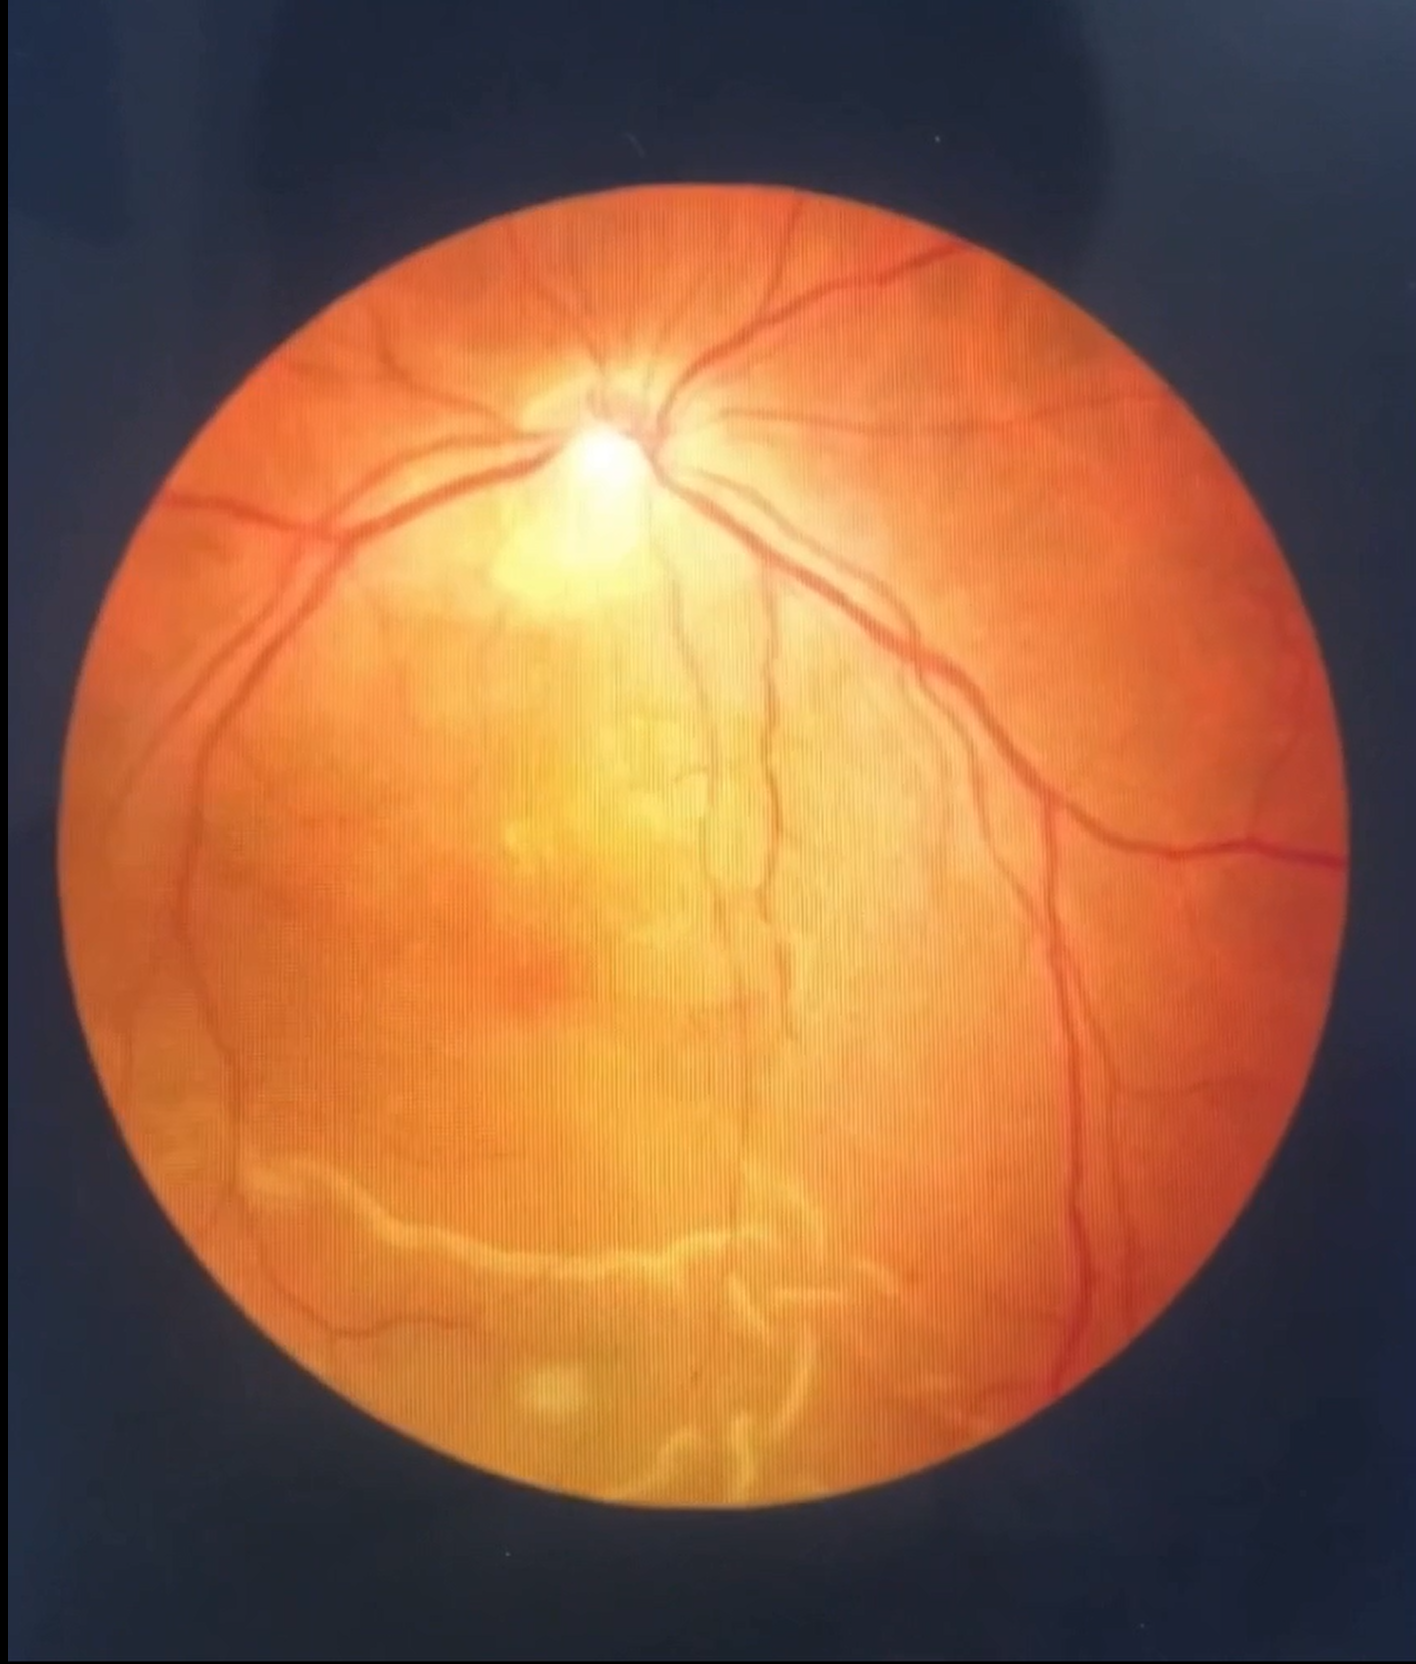
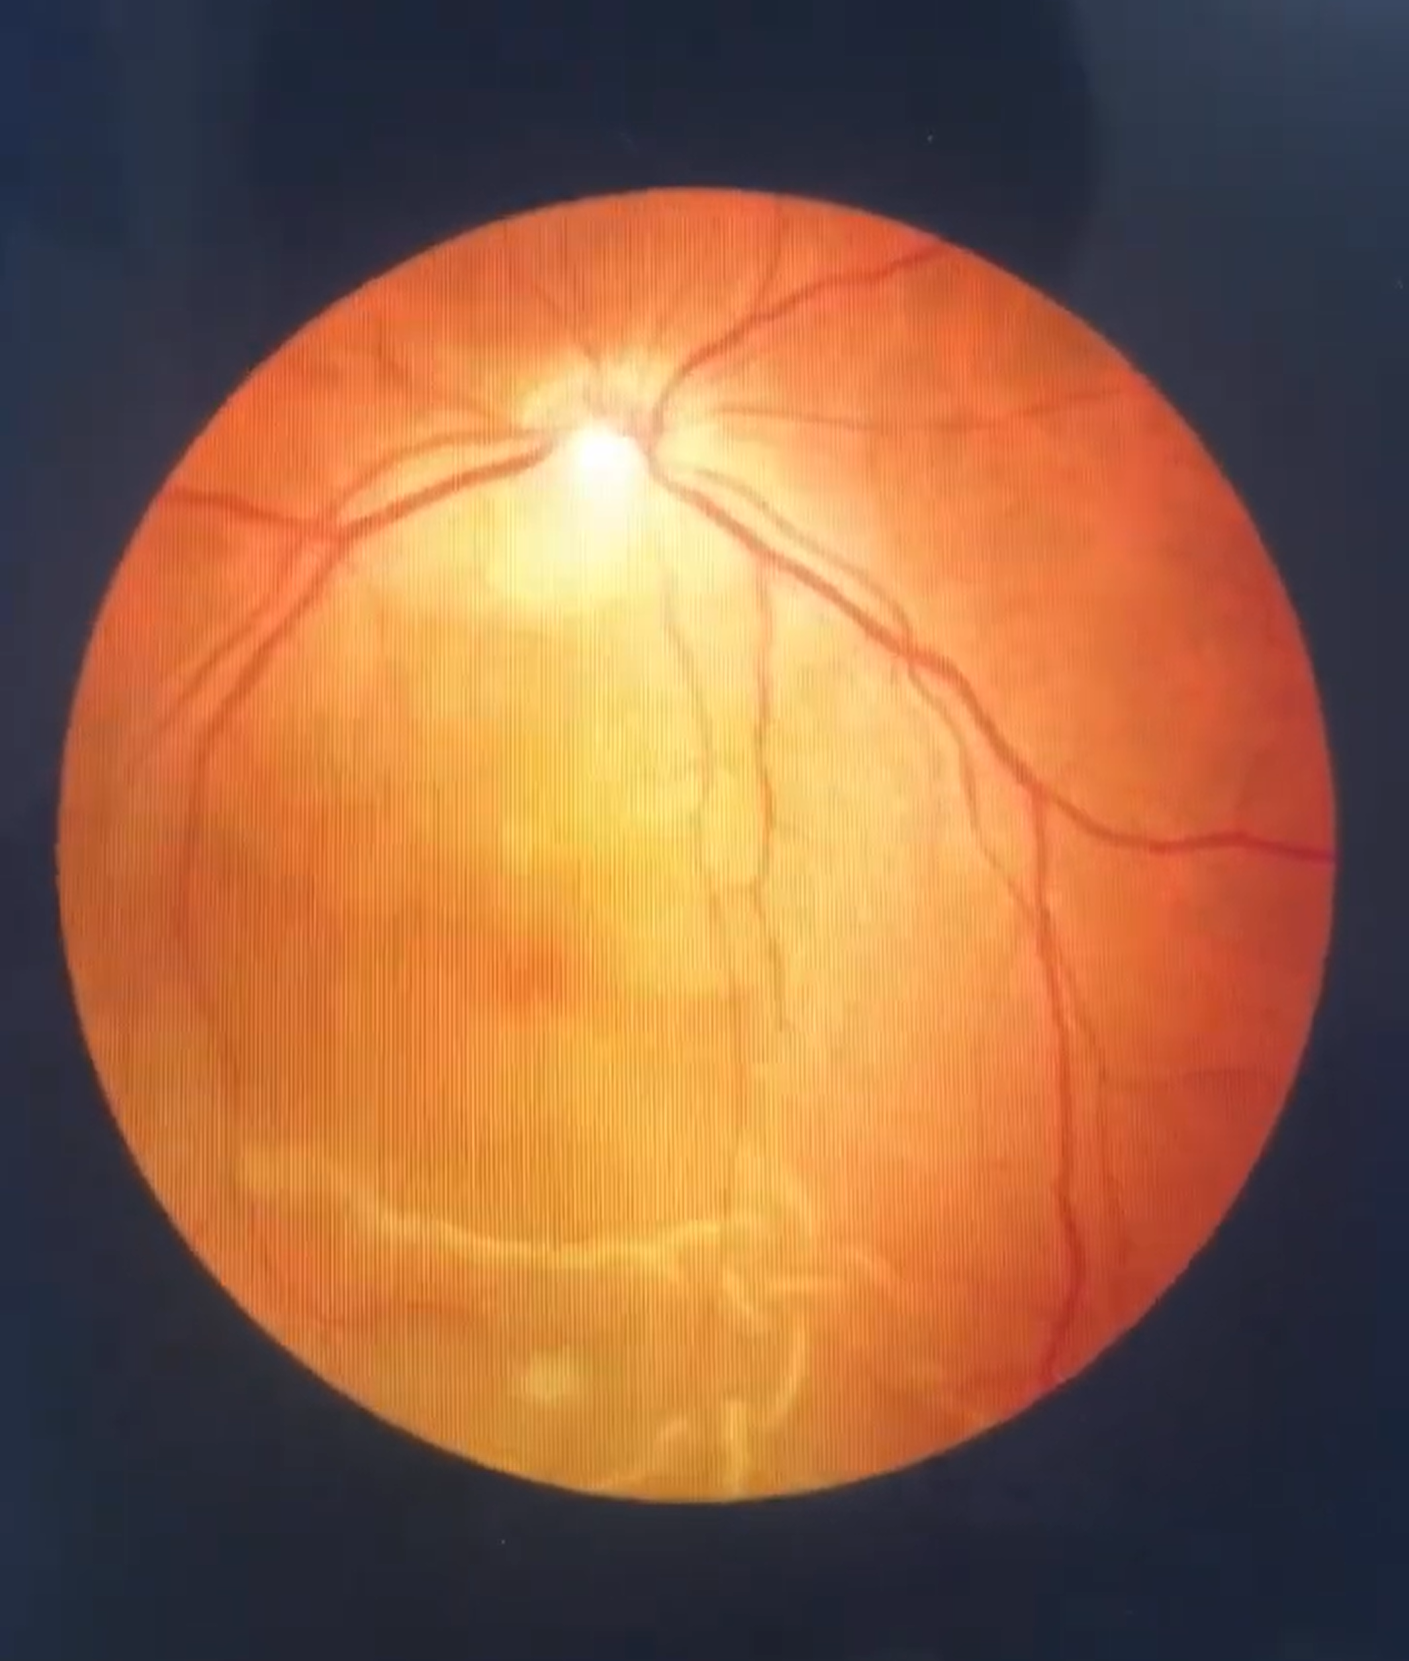
first draft retinal demo

diff --git a/src/pages/EyeDetect.jsx b/src/pages/EyeDetect.jsx
@@ -1,42 +1,60 @@
-import { useRef, useState } from 'react';
+import { useRef, useState } from "react";
 import Webcam from "react-webcam";
-import RetinaVid from '../assets/retinaldetachfake.mp4';
-import RetinaImg from '../assets/RetinaDetachImg.png';
+import RetinaVid from "../assets/retinaldetachfake.mp4";
+import RetinaImg from "../assets/RetinaDetachImg.png";
+import AnalyzedImg from "../assets/AnalyzedImg.png";
 
 const EyeDetect = () => {
   const webcamRef = useRef(null);
   const videoRef = useRef(null);
-  const [blurAmount, setBlurAmount] = useState('blur-sm');
+  const [blurAmount, setBlurAmount] = useState("blur-sm");
   const [isPlayingVid, setIsPlayingVid] = useState(true);
+  const [picTaken, setPicTaken] = useState(false);
   const [useCam, setUseCam] = useState(true);
+  const [loading, setLoading] = useState(false);
+  const [showPopup, setShowPopup] = useState(false);
 
   const captureImg = async () => {
     setIsPlayingVid(false);
+    setPicTaken(true);
+  };
+
+  const analyzeImg = async () => {
+    setShowPopup(true);
   };
 
   const reset = async () => {
-    setBlurAmount('blur-sm');
+    setBlurAmount("blur-sm");
     setUseCam(true);
     setIsPlayingVid(true);
+    setPicTaken(false);
+    setShowPopup(false);
+    setLoading(false);
     if (videoRef.current) {
-      videoRef.current.pause();
+      videoRef.current.play();
       videoRef.current.currentTime = 0;
     }
   };
 
   const animate = async () => {
     const wait = (ms) => new Promise((resolve) => setTimeout(resolve, ms));
-    const blurDegrees = ['blur-md', 'blur-lg', 'blur-xl', 'blur-3xl'];
-    for (let i = 0; i < 4; i++) {
+    const blurDegrees = ["blur-md", "blur-lg", "blur-xl", "blur-3xl"];
+
+    setLoading(true); // Show loading screen
+    await wait(500); // Brief delay for effect
+
+    for (let i = 0; i < blurDegrees.length; i++) {
       setBlurAmount(blurDegrees[i]);
       await wait(70);
     }
+
     setUseCam(false);
-    for (let i = 0; i < 4; i++) {
-      setBlurAmount(blurDegrees[3 - i]);
-      await wait(70);
-    }
-    setBlurAmount('');
+    setBlurAmount(blurDegrees[2]);
+    await wait(1000);
+
+    setBlurAmount("");
+    setLoading(false); // Hide loading screen
+
     if (videoRef.current) {
       videoRef.current.play();
     }
@@ -47,55 +65,140 @@ const EyeDetect = () => {
   };
 
   return (
-    <div className="overflow-hidden w-full min-h-screen bg-gray-900 text-white font-sans flex flex-col">
+    <div className="flex flex-col bg-gray-900 text-white font-sans">
+      {/* Popup */}
+      {showPopup && (
+        <div className="absolute inset-0 flex items-center justify-center bg-black bg-opacity-80 text-white z-50 overflow-y-scroll">
+          <div className="bg-gray-800 text-white rounded-xl p-6 shadow-xl text-center w-5/6 max-w-md mt-72">
+          <h2 className="text-xl font-bold mb-4">
+            <span className="bg-gradient-to-r from-red-500 via-red-600 to-red-700 text-white px-4 py-3 rounded-md shadow-xl shadow-red-950">
+              Retinal Detachment
+            </span>{" "}
+            <p className="mt-3">Found</p>
+          </h2>
+          <span
+            className="bg-gradient-to-r shadow-lg from-blue-500 via-blue-600 to-blue-700 text-white text-lg px-4 py-2 rounded-md shadow-gray-600 cursor-pointer transition-all duration-200 hover:bg-blue-600 hover:shadow-lg"
+          >
+            Click for Priority Treatment!
+          </span>
+
+
+            {/* Fundus Image Frame */}
+            <div
+              className="relative w-64 h-64 bg-black rounded-full mx-auto mb-6 mt-6 overflow-hidden"
+              style={{
+                clipPath: "circle(50% at center)",
+              }}
+            >
+              <img
+                src={AnalyzedImg}
+                alt="Retinal Detachment"
+                className="w-full h-full object-cover transform scale-125"
+              />
+            </div>
+            
+            <div className="bg-slate-950 bg-opacity-50 p-4 rounded-md">
+              <p className="mb-4 text-left font-semibold text-gray-300">
+              White folds and wrinkled areas indicate retinal detachment. 
+              </p>
+              <p className="mb-4 text-left text-gray-300">
+              Retinal detachment is a serious eye condition where the retina, a thin layer of light-sensitive tissue at the back of the eye, 
+              becomes separated from its underlying supportive tissue. Leaving untreated for 2 weeks + may lead to permanent blindness.
+              </p>
+              <p className="mb-6 text-left leading-relaxed text-gray-300">
+              <a
+                className="text-blue-400 hover:text-blue-500 underline transition-all"
+              >
+                More information here
+              </a>
+            </p>
+              <button
+                className="px-6 py-2 bg-blue-900 text-white rounded-xl shadow-lg transition-all duration-200"
+                onClick={() => setShowPopup(false)} // Close the popup
+              >
+                Close
+              </button>
+            </div>
+          </div>
+        </div>
+      )}
+
+
+      {/* Loading Screen */}
+      {loading && (
+        <div className="absolute top-0 left-0 w-full h-full flex items-center justify-center bg-black bg-opacity-70 z-40">
+          <h2 className="text-white text-2xl font-bold animate-pulse">Autofocusing...</h2>
+        </div>
+      )}
+
       {/* Header */}
-      <header className="w-full py-4 bg-gray-800 shadow-lg">
+      <header className="py-4 bg-blue-950 shadow-lg shadow-gray-800">
         <h1 className="text-center text-xl sm:text-2xl font-bold">
           Eye Disease Detection
         </h1>
       </header>
 
       {/* Main Content */}
-      <main className="flex-grow flex justify-center w-full">
-        <div className="relative flex w-full max-w-md h-96 sm:h-full items-center justify-center mt-8">
-          {/* Dynamic Content */}
-          {useCam ? (
-            <Webcam
-              ref={webcamRef}
-              className={`w-full h-full shadow-lg transform filter ${blurAmount}`}
-              audio={false}
-              screenshotFormat="image/jpeg"
-              videoConstraints={videoConstraints}
-            />
-          ) : isPlayingVid ? (
-            <video
-              ref={videoRef}
-              src={RetinaVid}
-              muted
-              autoPlay
-              loop
-              playsInline
-              className={`w-full h-full shadow-lg transform filter ${blurAmount}`}
-            ></video>
-          ) : (
-            <img
-              src={RetinaImg}
-              className="flex justify-center items-center h-full shadow-lg transform filter"
-              alt="Retinal Detachment"
-            />
-          )}
+      <main className="flex-grow flex flex-col justify-center w-full">
+        <div className="flex flex-col justify-center h-[50vh] w-full max-w-md bg-slate-900 p-4 my-5">
+          <div
+            className="flex items-center justify-center w-full h-full"
+            style={{
+              clipPath: "circle(55% at center)",
+            }}
+          >
+            {useCam ? (
+              <Webcam
+                ref={webcamRef}
+                className={`w-full h-full shadow-lg filter ${blurAmount} transform scale-150`}
+                audio={false}
+                screenshotFormat="image/jpeg"
+                videoConstraints={videoConstraints}
+              />
+            ) : isPlayingVid ? (
+              <div className={`${blurAmount}`}>
+                <video
+                  ref={videoRef}
+                  src={RetinaVid}
+                  muted
+                  autoPlay
+                  loop
+                  playsInline
+                  preload="auto"
+                  className={`w-full h-full shadow-lg filter transform scale-150`}
+                  style={{ filter: "saturate(0.65)" }}
+                ></video>
+              </div>
+            ) : (
+              <img
+                src={RetinaImg}
+                alt="Retinal Detachment"
+                className="w-full h-full object-contain shadow-lg transform scale-150"
+                style={{ filter: "saturate(0.65)" }}
+              />
+            )}
+          </div>
         </div>
       </main>
 
-      {/* Controls */}
-      <footer className="w-full bg-gray-800 py-3 fixed bottom-0">
-        <div className="flex justify-center space-x-3 px-4">
-          <button
-            onClick={captureImg}
-            className="px-4 py-2 bg-gray-700 hover:bg-gray-800 text-sm sm:text-base rounded-lg shadow focus:outline-none focus:ring focus:ring-gray-700"
-          >
-            Capture
-          </button>
+      {/* Footer */}
+      <footer className="w-full bg-gray-800 py-3 rounded-md">
+        <div className="flex gap-3">
+          {!picTaken ? (
+            <button
+              onClick={captureImg}
+              className="ml-20 px-4 py-2 bg-gray-700 hover:bg-gray-800 text-sm sm:text-base rounded-lg shadow focus:outline-none focus:ring focus:ring-gray-700"
+            >
+              Capture
+            </button>
+          ) : (
+            <button
+              onClick={analyzeImg}
+              className="ml-10 px-4 py-2 bg-purple-700 hover:bg-purple-800 text-sm sm:text-base rounded-lg shadow focus:outline-none focus:ring focus:ring-gray-700"
+            >
+              Analyze Image
+            </button>
+          )}
           <button
             onClick={reset}
             className="px-4 py-2 bg-blue-900 hover:bg-blue-950 text-sm sm:text-base rounded-lg shadow focus:outline-none focus:ring focus:ring-blue-900"
@@ -104,10 +207,8 @@ const EyeDetect = () => {
           </button>
           <button
             onClick={animate}
-            className="px-4 py-2 bg-green-700 hover:bg-green-800 text-sm sm:text-base rounded-lg shadow focus:outline-none focus:ring focus:ring-green-700"
-          >
-            Animate
-          </button>
+            className="px-8 bg-transparent"
+          ></button>
         </div>
       </footer>
     </div>

diff --git a/src/components/Navbar.jsx b/src/components/Navbar.jsx
@@ -1,0 +1,51 @@
+import { useState } from "react"
+import { FaCamera } from "react-icons/fa"; // Importing a camera icon from react-icons
+import { useNavigate } from "react-router-dom"
+
+const Navbar = () => {
+    const [active, setIsActive] = useState('ey')
+    const navigate = useNavigate();
+
+    const handleNavigation = (path, section) => {
+        setIsActive(section)
+        navigate(`/${path}`)
+    };
+
+    return (
+        <nav className="w-full bg-gradient-to-r from-blue-900 to-blue-900 shadow-md">
+        <div className="max-w-7xl mx-auto flex items-center px-6 py-4">
+            {/* Logo and Company Name */}
+            <div className="flex flex-col mr-5">
+                <FaCamera className="text-white text-3xl" />
+                <h1 className="text-lg font-semibold text-white">MedReady</h1>
+            </div>
+
+            {/* Navigation Links */}
+            <div className="flex space-x-3">
+            <button
+                onClick={() => handleNavigation("eye_detect", "eye")}
+                className={`px-4 py-2 rounded-lg text-sm sm:text-base transition focus:outline-none bg-blue-950 ${
+                active === "eye"
+                    ? "shadow-lg shadow-slate-800 text-gray-300"
+                    : "text-gray-400 hover:text-gray-300"
+                }`}
+            >
+                Eye Disease
+            </button>
+            <button
+                onClick={() => handleNavigation("skin_detect", "skin")}
+                className={`px-4 py-2 rounded-lg text-sm sm:text-base transition focus:outline-none bg-blue-950 ${
+                active === "skin"
+                    ? "shadow-lg shadow-slate-800 text-gray-300"
+                    : "text-gray-400 hover:text-gray-300"
+                }`}
+            >
+                Skin Disease
+            </button>
+            </div>
+        </div>
+        </nav>
+    );
+    };
+
+    export default Navbar;

diff --git a/src/App.jsx b/src/App.jsx
@@ -1,14 +1,39 @@
-import { createHashRouter, RouterProvider, createRoutesFromElements, Route } from "react-router-dom";
+import {
+  createHashRouter,
+  RouterProvider,
+  createRoutesFromElements,
+  Route,
+  Outlet,
+  Navigate,
+} from "react-router-dom";
+import Navbar from "./components/Navbar";
 import EyeDetect from "./pages/EyeDetect";
+import SkinDetect from "./pages/SkinDetect"; // Create this page for demonstration
+
+const Layout = () => (
+  <div className="min-h-screen bg-gray-900 text-white overflow-y-hidden overflow-x-hidden">
+    {/* Navbar always visible */}
+    <Navbar />
+    {/* Outlet renders the current route */}
+    <div className="p-6">
+      <Outlet />
+    </div>
+  </div>
+);
 
 function App() {
   const router = createHashRouter(
     createRoutesFromElements(
       <>
-        <Route path="/eye_detect" element={<EyeDetect />} />
+        <Route path="/" element={<Layout />}>
+          <Route index element={<Navigate to="/" />} />
+          <Route path="eye_detect" element={<EyeDetect />} />
+          <Route path="skin_detect" element={<SkinDetect />} />
+        </Route>
       </>
     )
   );
+
   return <RouterProvider router={router} />;
 }
 

diff --git a/src/pages/SkinDetect.jsx b/src/pages/SkinDetect.jsx
@@ -1,0 +1,10 @@
+import React from 'react'
+
+const SkinDetect = () => {
+  return (
+    <div> Skin Detection
+    </div>
+  )
+}
+
+export default SkinDetect
